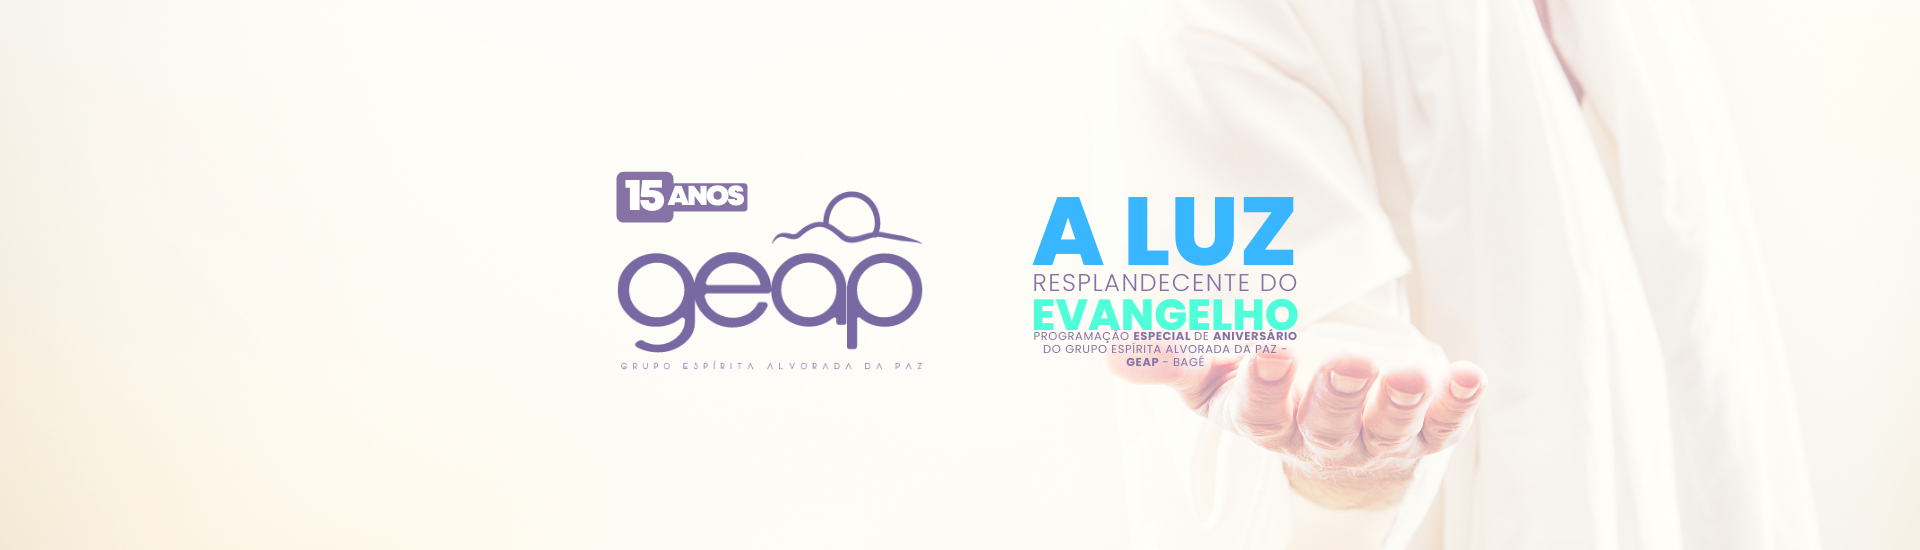
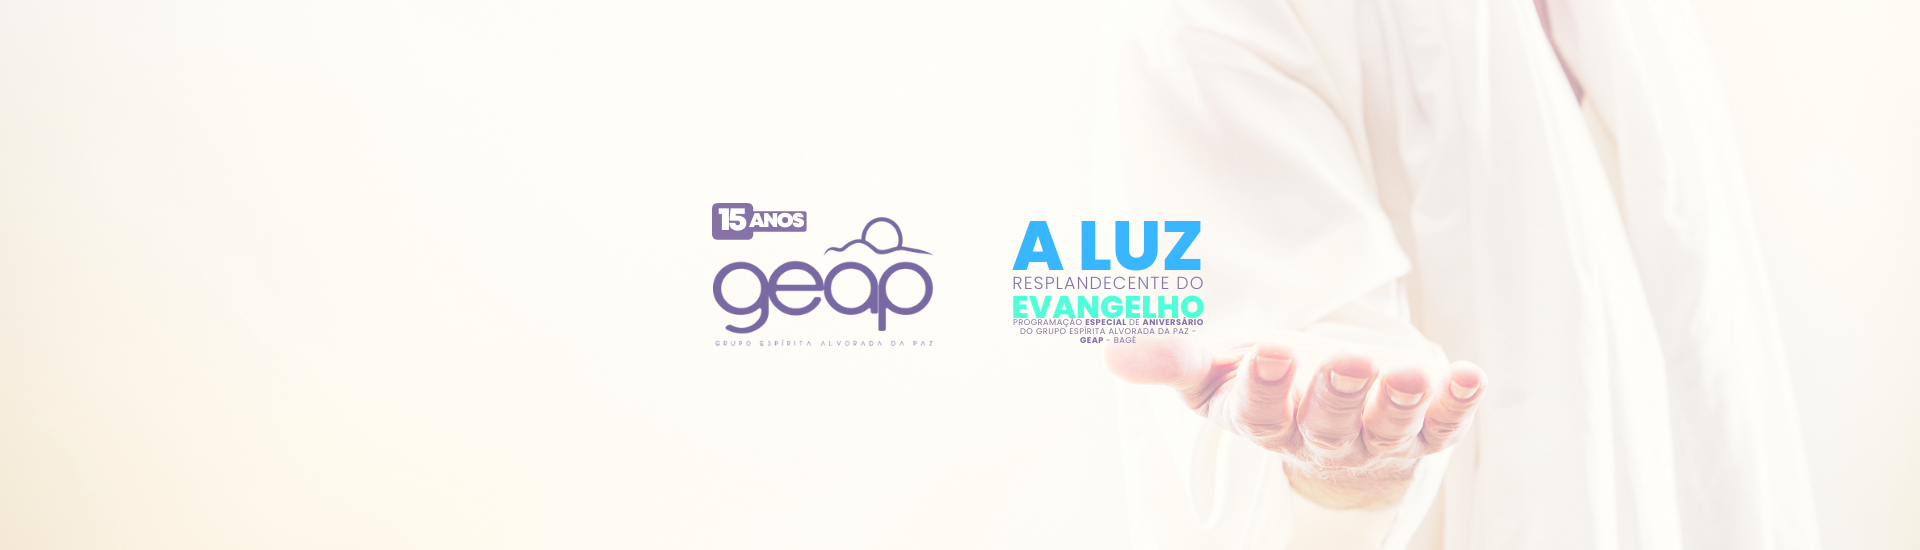
ajuste topo vertical

Changed region(s): [[0.3125, 0.3091, 0.6875, 0.68], [0.4062, 0.6491, 0.4375, 0.68]]

diff --git a/css/style.css b/css/style.css
@@ -151,7 +151,7 @@ header{
 @media (max-width: 603px) {
 	header {
 		position: relative;
-		background: url("../img/capas14anos/topoVert.png");
+		background: url("../img/capas14anos/topoVert15.png");
 		min-height: 90vh;
 		background-size: cover;
 		background-position:center;
